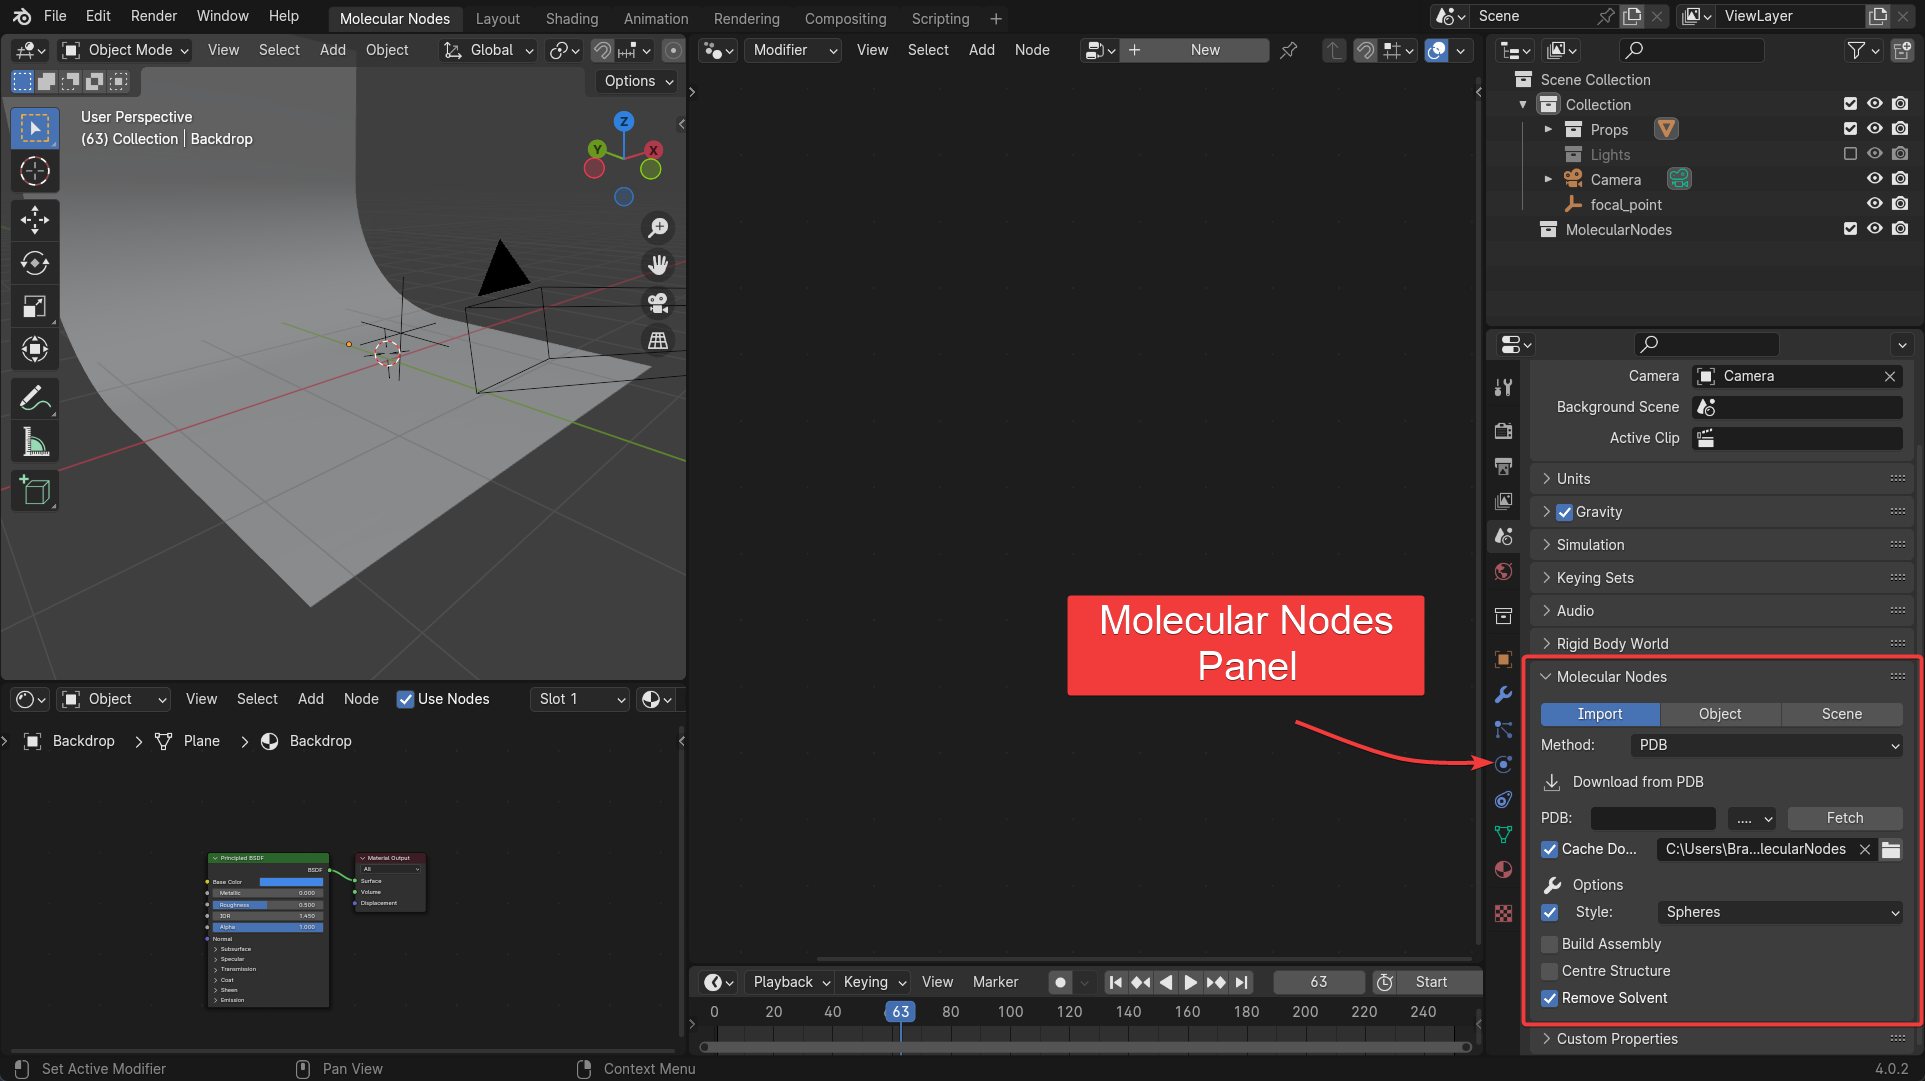
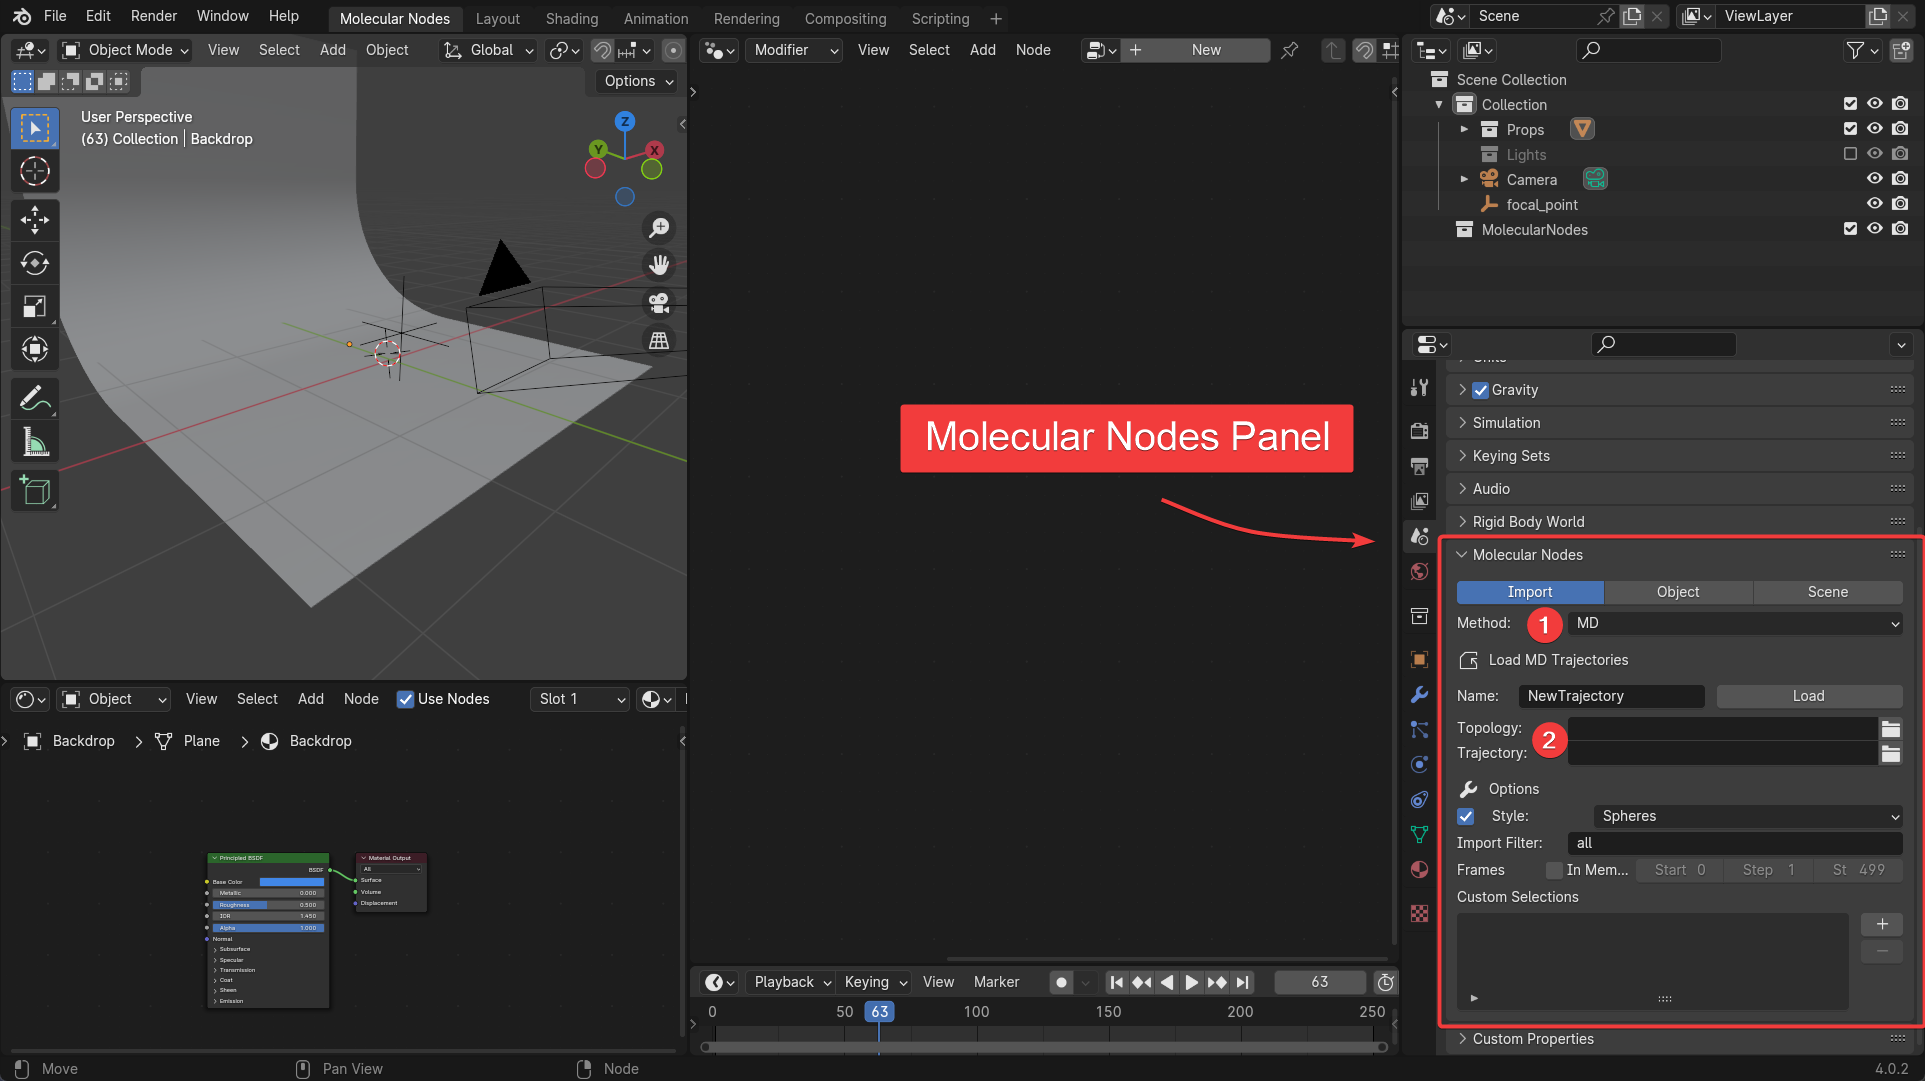
update

diff --git a/blender/MolecularDynamics.md b/blender/MolecularDynamics.md
@@ -6,7 +6,10 @@ bibliography: references.bib
 
 # Starting Blender
 
-If you have successfully installed Molecular Nodes, then you should see `Molecular Nodes` as a new starting template when opening Blender. You can still use Molecular Nodes without starting as a template, but the UI will be slightly different to start with. When starting with or without the template, you can customise the UI and starting scene to your liking - and even create your own templates. Included with Molecular Nodes is a template which includes a number of quality-of-life improvements for using Molecular Nodes.
+If you have successfully installed Molecular Nodes, then you should see `Molecular Nodes` as a new starting template when opening Blender.
+You can still use Molecular Nodes without starting as a template, but the UI will be slightly different to start with.
+When starting with or without the template, you can customise the UI and starting scene to your liking - and even create your own templates.
+Included with Molecular Nodes is a template which includes a number of quality-of-life improvements for using Molecular Nodes.
 
 If you do not see this, then please follow the [installation instructions](https://bradyajohnston.github.io/MolecularNodes/installation.html) in the documentation.
 
@@ -14,31 +17,32 @@ If you do not see this, then please follow the [installation instructions](https
 
 # The 'Molecular Nodes' Interface
 
-Blender can have a very overwhelming interface. The Molecular Nodes template starts with 3 main areas shown - the 3D viewport where the 3D view and rendered view are shown, the Geometry Nodes - where you combine different nodes to style and animate your structure, and the Shader Nodes, where you can quickly adjust the look of the materials applied to your structure.
+Blender can have a very overwhelming interface.
+The Molecular Nodes template starts with 3 main areas shown - the 3D viewport where the 3D view and rendered view are shown, the Geometry Nodes - where you combine different nodes to style and animate your structure, and the Shader Nodes, where you can quickly adjust the look of the materials applied to your structure.
 
 The other areas are the `Outliner` which shows all of the objects in your 3D scene, the `Properties` where you can adjust all of the scene, render, world, material and other properties, and the `Timeline`, which shows the current and surrounding frames if there is an animation to play back.
 
 ![Screenshot of Blender's Interface](imgs/workspaces.png)
 
-> Where you mouse is currently hovering over, determines the actions that are triggered by keyboard shortcuts. Be sure to move the mouse to the area you want to interact with before using keyboard shortcuts.
+> Where you mouse is currently hovering over, determines the actions that are triggered by keyboard shortcuts.
+> Be sure to move the mouse to the area you want to interact with before using keyboard shortcuts.
 
-You can resize and change the arrangement of the windows by hovering your mouse over the edges of the windows. You can create new windows by dragging out of the corners of the windows, or combine windows by dragging the corner of one window into another.
+You can resize and change the arrangement of the windows by hovering your mouse over the edges of the windows.
+You can create new windows by dragging out of the corners of the windows, or combine windows by dragging the corner of one window into another.
 
 > For a more general introduction to Blender, please see the [Blender's Interface](https://bradyajohnston.github.io/MolecularNodes/tutorials/00_interface.html)
 
 ## MD Trajectory Panel
 
 To import trajectories, change the import method in the Molecular Nodes panel to the `MD` import method.
-Once on the MD panel, you can select topology and trajectory files, choose a name for the created object, and change the import options such as the starting style or filters to apply when importing.
 
-![](imgs/MN_panel_MD.png)
+1.  Change the import method from PDB to MD
+2.  Select the topology and trajectory files.
 
-The minimum requirements are a valid \`Topology\`\` file, that can be read by [MDAnalysis](https://userguide.mdanalysis.org/stable/formats/index.html).
+Optionally change import settings for style filtering and the addition of extra selections.
+Check the documentation for more details on these potential options.
 
-If just a topology is selected then a static model should be imported.
-If additionally a trajectory is selected, then the toplogy will have coordinates that change when the `Frame` changes inside of Blender.
-
-Below selects some example `MDAnlaysis` data for import, without changing any of the defaults.
+![](imgs/molecular_nodes_panel.png)
 
 ### Import Options
 
@@ -115,7 +119,8 @@ To make changes you must reimport the trajectory.
 
 To create an animation of the structure opening, we will import one of the example datasets that we have been working with in the previous jupyter notebooks.
 
-The data should already be downloaded onto your computer, found in your home folder under `~/MDAnalysis_data/`. You can check the path of the files by running this command in one of your notebooks.
+The data should already be downloaded onto your computer, found in your home folder under `~/MDAnalysis_data/`.
+You can check the path of the files by running this command in one of your notebooks.
 
 ``` python
 # pip install MDAnalysisData
